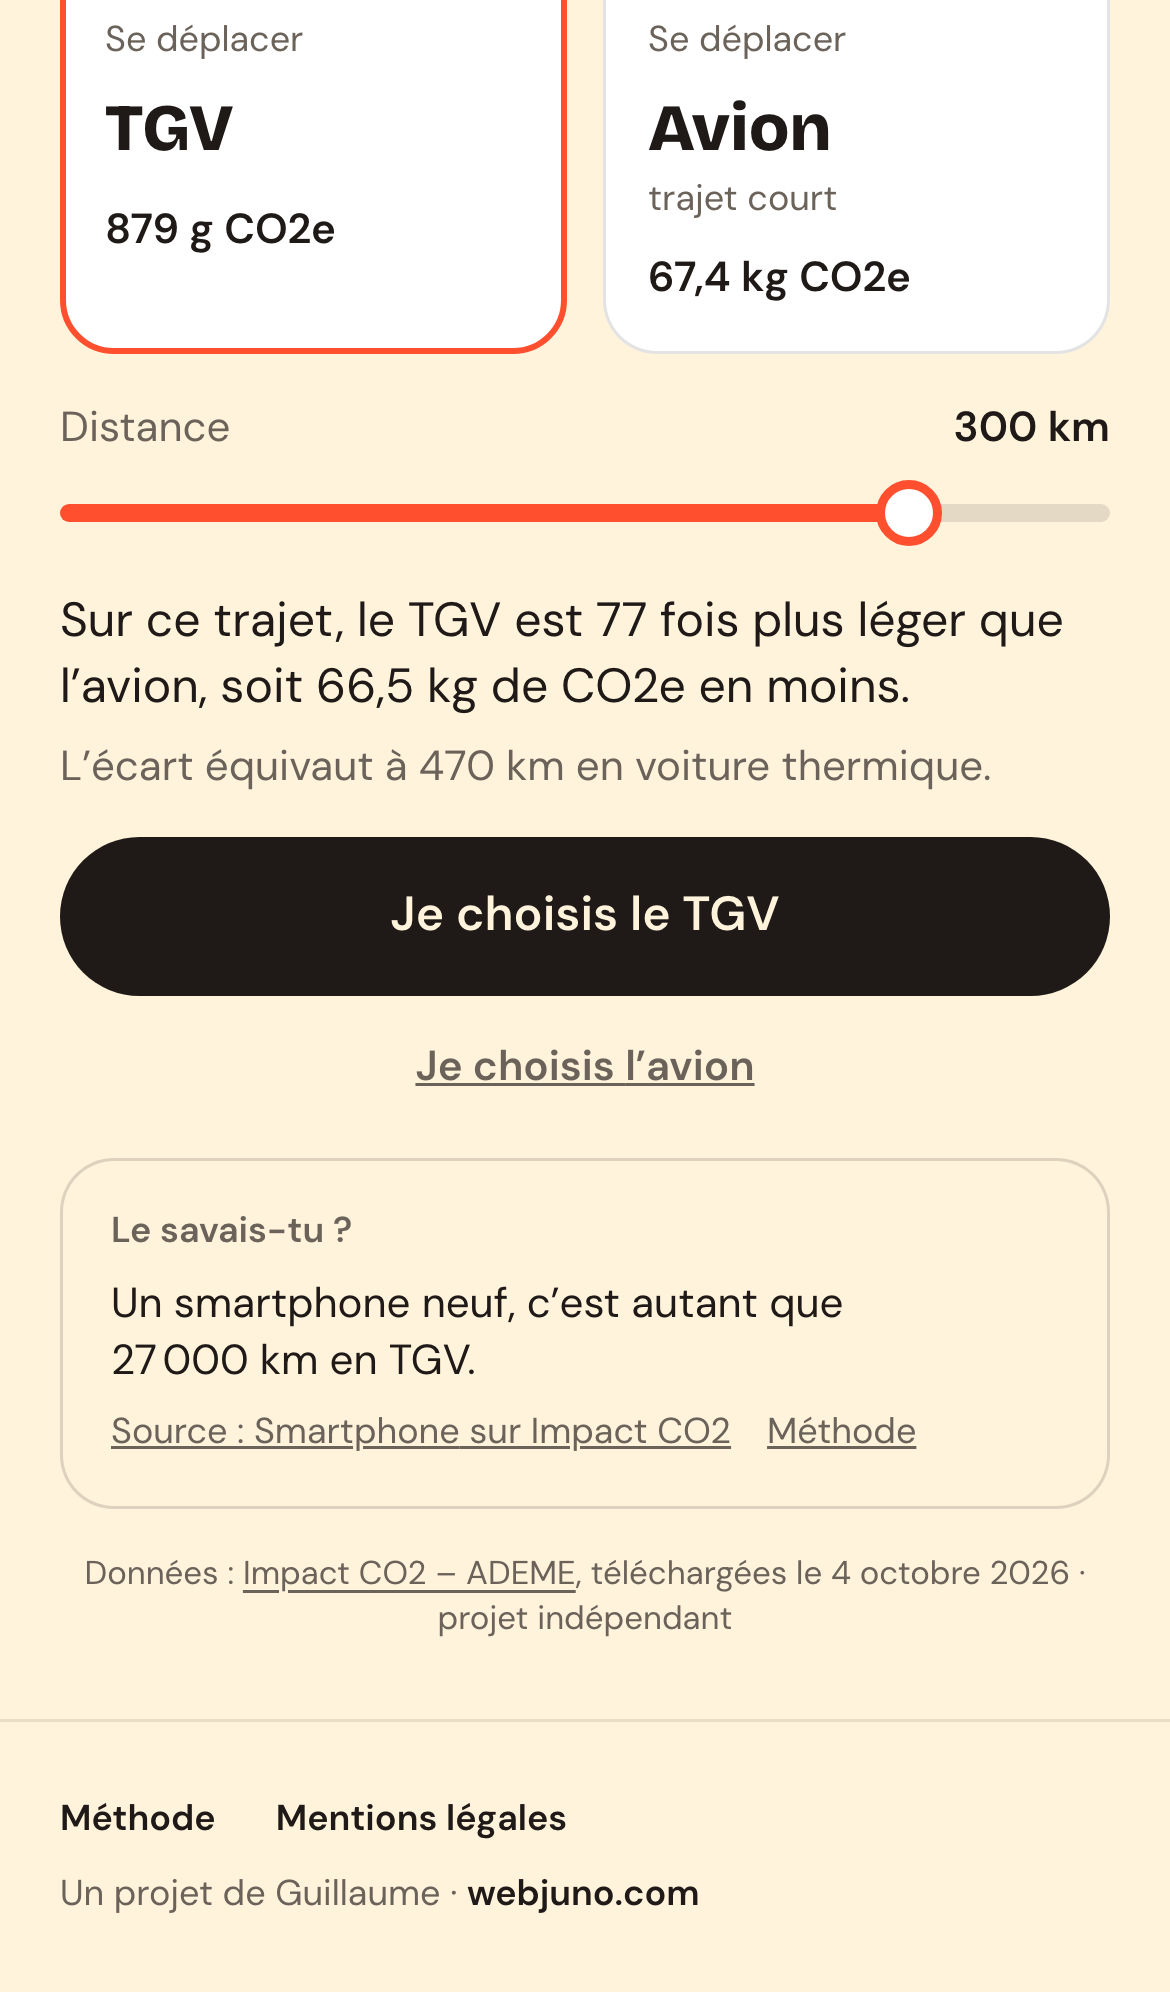
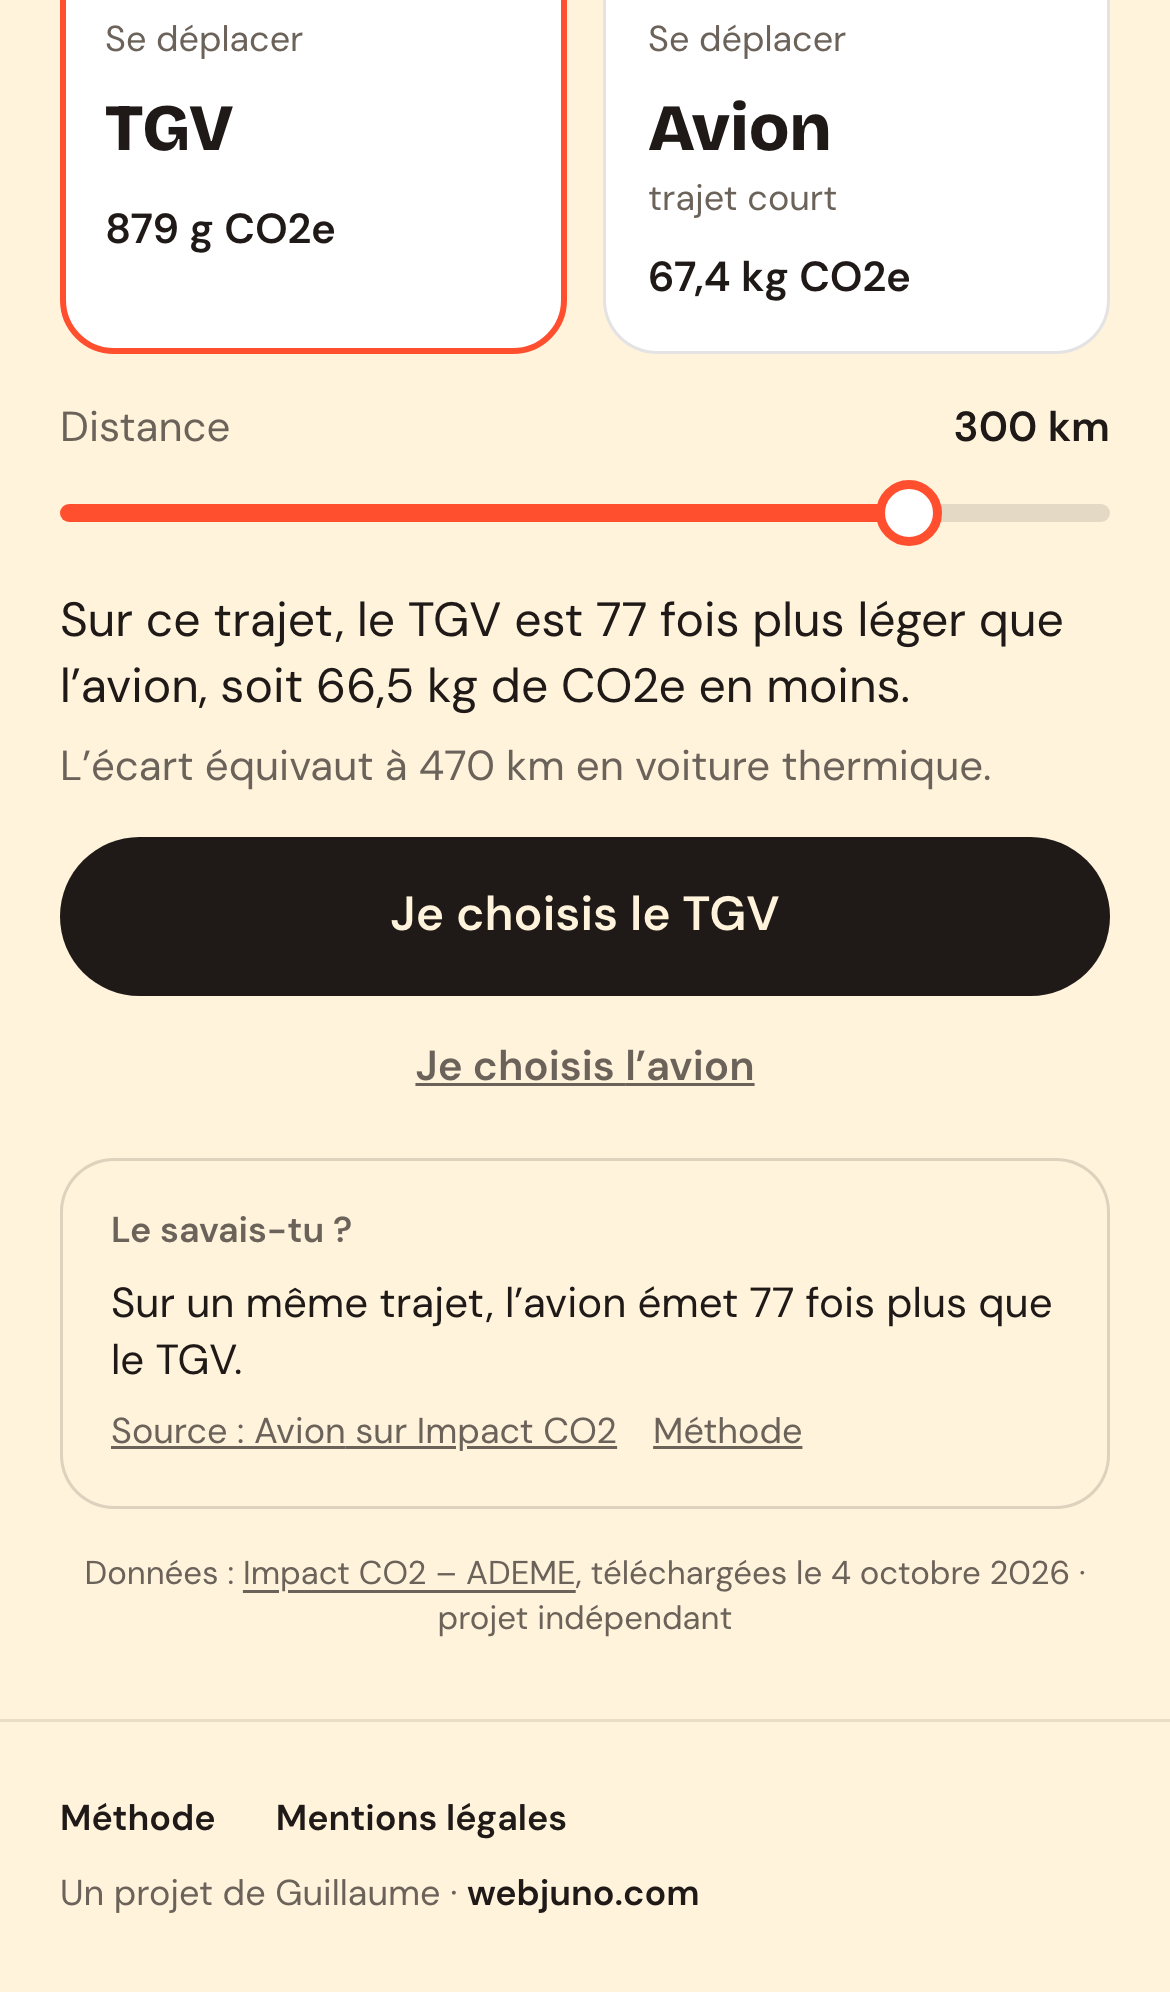
docs: captures mises à jour et journal du 5 octobre

Changed region(s): [[0.0923, 0.6225, 0.7692, 0.747], [0.7692, 0.6536, 0.8923, 0.6847]]

diff --git a/docs/journal.md b/docs/journal.md
@@ -697,3 +697,35 @@ dans CLAUDE.md.)
   jardin manqué par `toBeVisible` (WebKit) ; ce dernier test guette désormais l'éclat à
   chaque image. Les deux suites complètes suivantes : 86/86.
 - « 1 kg » se coupait en fin de ligne sur /saison : espace insécable.
+
+## 2026-10-05 — Lot V2-1, fusion de main et dernières retouches (branche feat/v1-1)
+
+**Demandé** : ramener main (fix/launch fusionnée) dans feat/v1-1 par fusion, en gardant
+les deux côtés des conflits ; afficher les deux dates des données de saison ; joindre le
+texte complet de toute erreur console au rapport Playwright ; relancer toutes les
+vérifications (`STRICT_DATA=1 pnpm build` doit passer).
+
+**Proposé / fait** :
+
+- Fusion de main (sans rebase). Conflits : CLAUDE.md (mentions légales remplies et garde-fou
+  des faits, plus la règle ADEME), journal (entrée fix/launch remise avant les entrées V2-1,
+  ordre chronologique), `e2e/journeys.spec.ts` (même vérification de l'éclat des deux
+  côtés : gardée dans sa version image par image, `toBeVisible` l'avait manquée une fois).
+- Données de saison : « Données Agribalyse 3.2 (mise à jour du 15/01/2025), récupérées le
+  4 octobre 2026 » sur /saison et /methode#saison. `SAISON_BASE` (src/lib/saison/index.ts)
+  cite la page lue le 2026-10-05 (https://impactco2.fr/outils/fruitsetlegumes et les
+  fiches produits) ; `pnpm build-saison` rappelle de la relire.
+- Rapport Playwright : chaque erreur console (texte, emplacement, page, pile d'une
+  exception) est jointe au test (`erreurs-console.txt`), même tolérée ; vérifié sur le test
+  de la 404. Rapport HTML activé et conservé en CI à chaque passage.
+- Vérifications : lint, typecheck, 444 tests unitaires, 2 suites de bout en bout complètes
+  (86/86, Chromium et WebKit, axe compris), `pnpm build` et `STRICT_DATA=1 pnpm build`
+  passent (« Mentions légales : complètes »). Lighthouse mobile, 3 passages sur le build
+  normal (noindex) : Accueil 97-100, Comparer 95-96, Duel 94, Jardin 92-95, De saison 97,
+  Méthode 97-100 ; accessibilité et bonnes pratiques à 100 ; SEO 66-69 (noindex). Captures
+  mises à jour.
+
+**Gardé / changé** :
+
+- L'erreur console WebKit de l'accueil n'est pas revenue sur ces deux suites ; si elle
+  revient, son texte complet sera dans le rapport.
